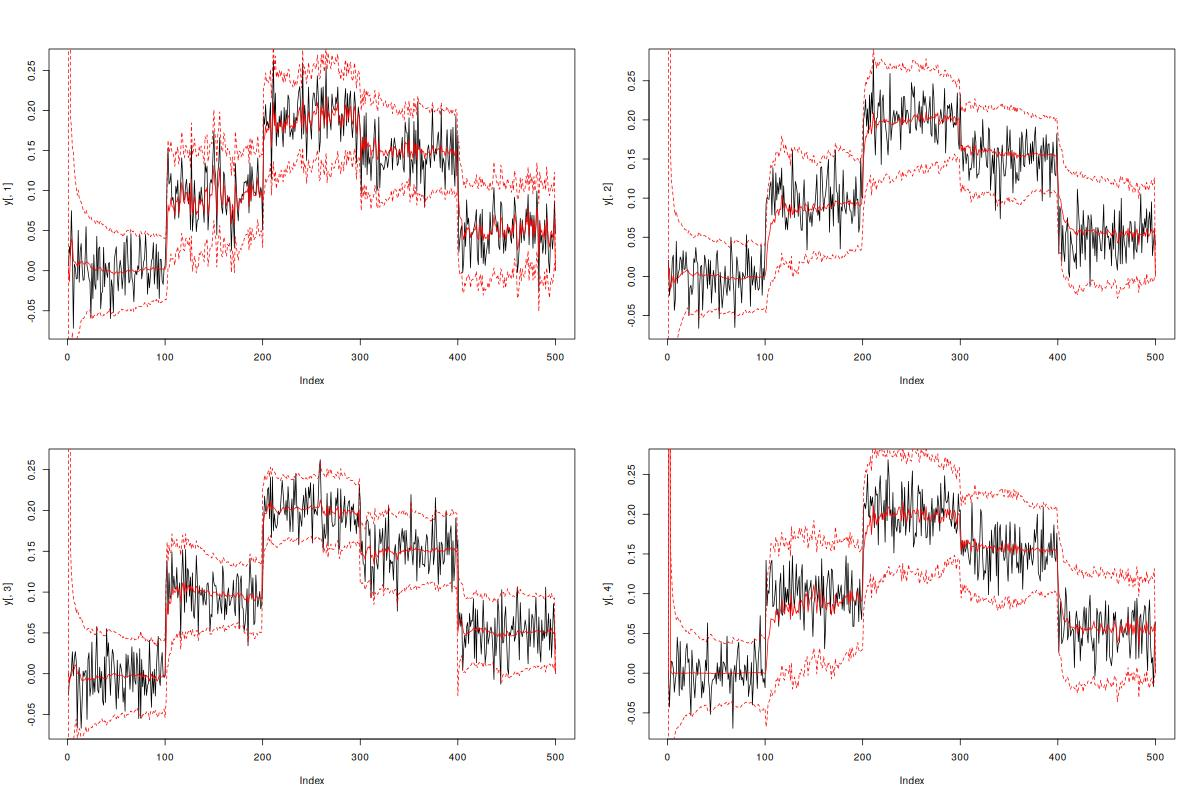
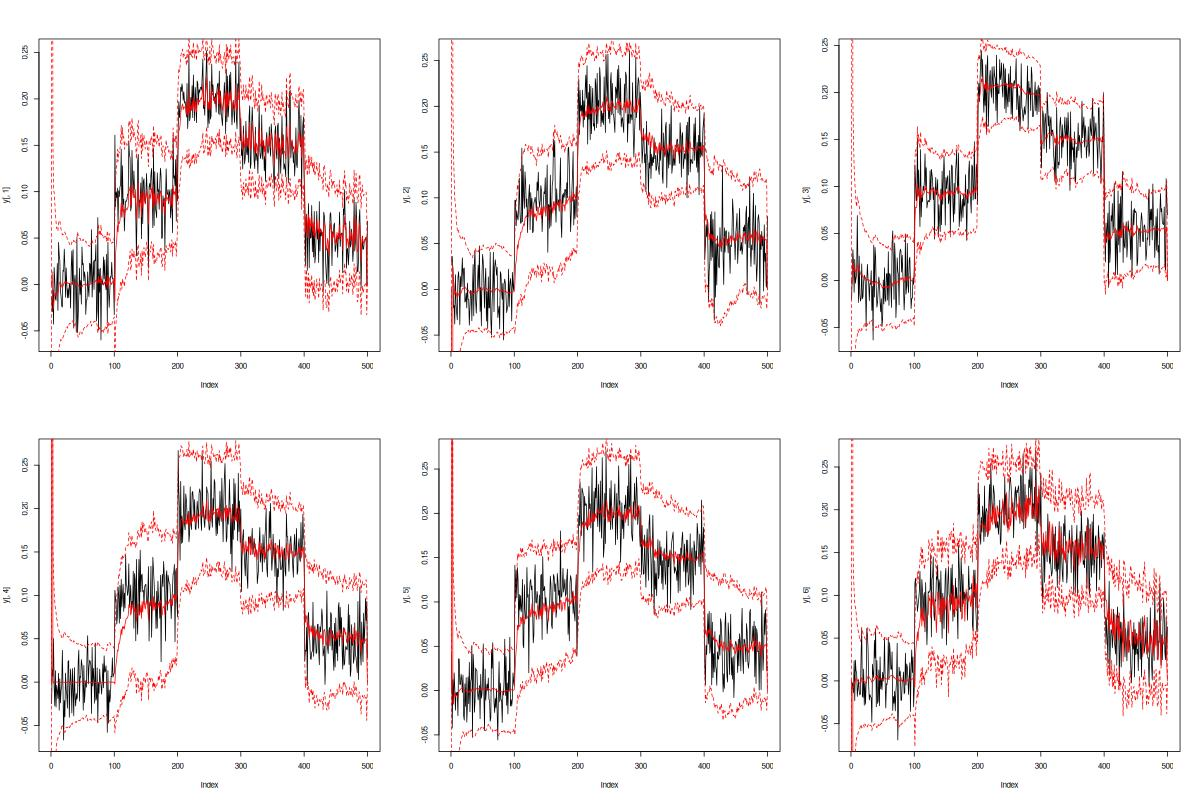
update readme

diff --git a/README.md b/README.md
@@ -45,34 +45,57 @@ M = Module("gpuSGDLM", "rSGDLM")
 no_gpus=1
 sgdlm1 = new(M$SGDLM, no_gpus)
 
+# define m = number of series
+m = 6
+
+# define simultaneous parental structure
+count_parents = c(2, 1, 3, 0, 1, 2)
+list_simultaneous_parents = list(
+  c(3),
+  c(1, 3, 4),
+  c(),
+  c(1, 2),
+  c(2, 3, 6),
+  c(1, 4)
+)
+
+# input validation
+stopifnot(length(count_parents) == m, length(list_simultaneous_parents) == m, min(unlist(list_simultaneous_parents)) >= 1, max(unlist(list_simultaneous_parents)) <= m)
+
 # set simultaneous parental structure
-p = c(3,4,3,2)
-sp = matrix(c(NA, NA, 8, NA, NA, 1, 9, 13, NA, NA, NA, NA, 3, 7, NA, NA), max(p))
+count_simultaneous_parents = sapply(list_simultaneous_parents, length)
+p = count_parents + count_simultaneous_parents
+sp = matrix(NA, nrow = max(p), ncol = m)
+
+helper_pos_Gamma = matrix(0:(m * m - 1), nrow = m, ncol = m)
+for (j in 1:m) {
+  if (length(list_simultaneous_parents[[j]]) >= 1) {
+    sp[count_parents[j] + (1:length(list_simultaneous_parents[[j]])), j] = helper_pos_Gamma[j, list_simultaneous_parents[[j]]]
+  }
+}
+
 sgdlm1$setSimultaneousParents(p, sp)
 
-# define m = number of series
-m = 4
-
 # set discount factors
-beta = rep(.95,m)
-delta = rep(.975,m)
+beta = rep(.95, m)
+delta = rep(.975, m)
 sgdlm1$setDiscountFactors(beta, delta)
 
 # set initial parameters
 a = array(0, c(max(p), m))
-R = array(0.05*diag(max(p)), c(max(p), max(p), m))
+R = array(0.05 * diag(max(p)), c(max(p), max(p), m))
 r = rep(1, m)
 c = rep(.01, m)
 sgdlm1$setPriorParameters(a, R, r, c)
 
 # generate mock time series data
 T=500
-true_means=c(rep(0,T/5), rep(.1,T/5), rep(.2,T/5), rep(.15,T/5), rep(.05,T/5))
-y=matrix(rnorm(m*T,true_means,.025),T)
+true_means=c(rep(0, T/5), rep(.1, T/5), rep(.2, T/5), rep(.15, T/5), rep(.05, T/5))
+y=matrix(rnorm(m*T, true_means, .025), T)
 
-mean_forecasts = array(0, c(T,m))
-upper_bound_forecasts = array(0, c(T,m))
-lower_bound_forecasts = array(0, c(T,m))
+mean_forecasts = array(0, c(T, m))
+upper_bound_forecasts = array(0, c(T, m))
+lower_bound_forecasts = array(0, c(T, m))
 
 # filter data
 for(t in 2:T) {
@@ -83,12 +106,18 @@ for(t in 2:T) {
   
   # time t predictors including values of simultaneous parental series
   F_t=array(0, c(max(p), m))
-  F_t[1,1:3] = 1 # local intercept for series j=1,2,3
-  F_t[2,c(1,3)] = y[t-1,c(1,3)] # AR1-term for series j=1,3
-  F_t[3,3] = true_means[t] # true mean predictor for series j=3 (unrealistic in practice!)
-  F_t[3,1] = y_t[3] # simultaneous parents for series j=1
-  F_t[2:4,2] = y_t[c(1,3,4)] # simultaneous parents for series j=2
-  F_t[1:2,4] = y_t[c(1,2)] # simultaneous parents for series j=4
+  # first, set the "external" predictors (real parents)
+  F_t[1:2, 1] = c(1, y[t-1, 1]) # series j=1 gets an intercept and AR1 term
+  F_t[1, 2] = 1 # series j=2 gets an intercept
+  F_t[1:3, 3] = c(1, y[t-1, 3], true_means[t]) # series j=3 gets an intercept, AR1 term, and oracle predictor
+  F_t[1, 5] = 1 # series j=5 gets an intercept
+  F_t[1:2, 6] = c(1, y[t-1, 1]) # series j=6 gets an intercept an a cross-series AR1 term
+  # second, set the simultaneous parents
+  for (j in 1:m) {
+    if (length(list_simultaneous_parents[[j]]) >= 1) {
+      F_t[count_parents[j] + (1:length(list_simultaneous_parents[[j]])), j] = y_t[list_simultaneous_parents[[j]]]
+    }
+  }
   
   # compute naive posteriors
   sgdlm1$computePosterior(y_t, F_t)
@@ -107,9 +136,11 @@ for(t in 2:T) {
   if (t < T) {
     # external time t+1 predictors 
     F_tp1=array(0, c(max(p), m))
-    F_tp1[1,1:3] = 1 # local intercept for series j=1,2,3
-    F_tp1[2,c(1,3)] = y[t,c(1,3)] # AR1-term for series j=1,3
-    F_tp1[3,3] = true_means[t+1] # true mean predictor for series j=3 (we are unlikely to know true means in the real world!)
+    F_tp1[1:2, 1] = c(1, y[t, 1]) # series j=1 gets an intercept and AR1 term
+    F_tp1[1, 2] = 1 # series j=2 gets an intercept
+    F_tp1[1:3, 3] = c(1, y[t, 3], true_means[t+1]) # series j=3 gets an intercept, AR1 term, and oracle predictor
+    F_tp1[1, 5] = 1 # series j=5 gets an intercept
+    F_tp1[1:2, 6] = c(1, y[t, 1]) # series j=6 gets an intercept an a cross-series AR1 term
   
     # compute forecasts 
     y.forecasts = sgdlm1$computeForecast(10000, 10000, F_tp1)
@@ -121,7 +152,7 @@ for(t in 2:T) {
 }
 
 # plot true data and forecasts
-par(mfrow = c(2, 2))
+par(mfrow = c(2, 3))
 plot(y[,1], type = 'l')
 lines(mean_forecasts[,1], col = 'red')
 lines(upper_bound_forecasts[,1], col = 'red', lty = 'dashed')
@@ -138,6 +169,14 @@ plot(y[,4], type = 'l')
 lines(mean_forecasts[,4], col = 'red')
 lines(upper_bound_forecasts[,4], col = 'red', lty = 'dashed')
 lines(lower_bound_forecasts[,4], col = 'red', lty = 'dashed')
+plot(y[,5], type = 'l')
+lines(mean_forecasts[,5], col = 'red')
+lines(upper_bound_forecasts[,5], col = 'red', lty = 'dashed')
+lines(lower_bound_forecasts[,5], col = 'red', lty = 'dashed')
+plot(y[,6], type = 'l')
+lines(mean_forecasts[,6], col = 'red')
+lines(upper_bound_forecasts[,6], col = 'red', lty = 'dashed')
+lines(lower_bound_forecasts[,6], col = 'red', lty = 'dashed')
 ```
 ![Forecast and observed data](README-plot1.jpg)
 
@@ -172,7 +211,7 @@ mean_forecasts = t(apply(multi_step_forecasts, c(1, 3), mean))
 upper_bound_forecasts = t(apply(multi_step_forecasts, c(1, 3), quantile, .95, na.rm = TRUE))
 lower_bound_forecasts = t(apply(multi_step_forecasts, c(1, 3), quantile, .05, na.rm = TRUE))
 
-par(mfrow = c(2, 2))
+par(mfrow = c(2, 3))
 plot(mean_forecasts[,1], ylim = c(min(lower_bound_forecasts, na.rm = TRUE), max(upper_bound_forecasts, na.rm = TRUE)), type = 'l', col = 'red')
 lines(upper_bound_forecasts[,1], col = 'red', lty = 'dashed')
 lines(lower_bound_forecasts[,1], col = 'red', lty = 'dashed')
@@ -185,5 +224,15 @@ lines(lower_bound_forecasts[,3], col = 'red', lty = 'dashed')
 plot(mean_forecasts[,4], ylim = c(min(lower_bound_forecasts, na.rm = TRUE), max(upper_bound_forecasts, na.rm = TRUE)), type = 'l', col = 'red')
 lines(upper_bound_forecasts[,4], col = 'red', lty = 'dashed')
 lines(lower_bound_forecasts[,4], col = 'red', lty = 'dashed')
+plot(mean_forecasts[,5], ylim = c(min(lower_bound_forecasts, na.rm = TRUE), max(upper_bound_forecasts, na.rm = TRUE)), type = 'l', col = 'red')
+lines(upper_bound_forecasts[,5], col = 'red', lty = 'dashed')
+lines(lower_bound_forecasts[,5], col = 'red', lty = 'dashed')
+plot(mean_forecasts[,6], ylim = c(min(lower_bound_forecasts, na.rm = TRUE), max(upper_bound_forecasts, na.rm = TRUE)), type = 'l', col = 'red')
+lines(upper_bound_forecasts[,6], col = 'red', lty = 'dashed')
+lines(lower_bound_forecasts[,6], col = 'red', lty = 'dashed')
 ```
 ![Forecast and observed data](README-plot2.jpg)
+
+### Exporting lambdas and thetas
+
+The functions `computeForecastDebug` and `computeEvoForecastDebug` return a list of forecasts, lambdas and thetas.
